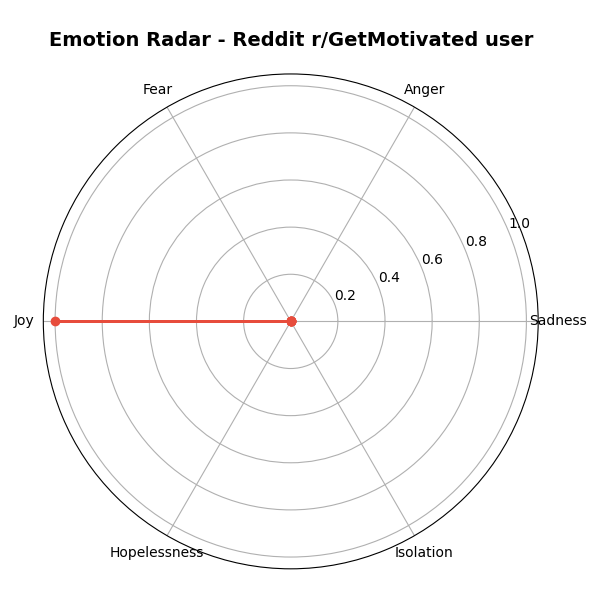
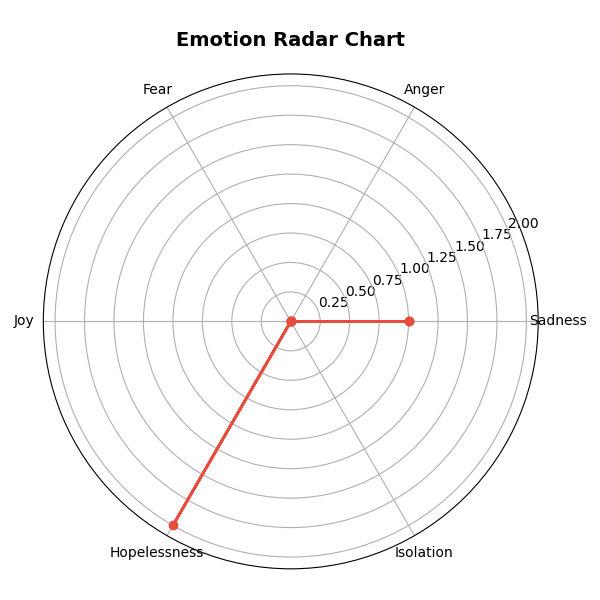
✅ Streamlit app final version

diff --git a/app.py b/app.py
@@ -2,46 +2,83 @@
 import streamlit as st
 import sys
 sys.path.append("/content/mental-health-detection")
-
 from src.preprocess import load_data, preprocess_dataframe
-from src.model import train_model, predict_risk, save_model, load_model
+from src.model import train_model, predict_risk, save_model
 from src.sentiment import analyze_sentiment, get_emotional_pattern
-from src.visualize import plot_risk_meter, plot_keyword_triggers, plot_wordcloud
-import pandas as pd
+from src.visualize import plot_risk_meter, plot_emotion_radar
+import matplotlib.pyplot as plt
 
 # Load and train
-df = load_data("/content/mental-health-detection/data/depression_dataset_reddit_cleaned.csv")
-df = preprocess_dataframe(df)
-model, tfidf = train_model(df)
+@st.cache_resource
+def load_and_train():
+    df = load_data("/content/mental-health-detection/data/depression_dataset_reddit_cleaned.csv")
+    df = preprocess_dataframe(df)
+    model, tfidf = train_model(df)
+    return model, tfidf
 
-# App
+st.set_page_config(page_title="Mental Health Detection", page_icon="🧠", layout="wide")
+
 st.title("🧠 Mental Health Detection System")
-st.write("Analyze social media posts for mental health indicators")
+st.write("Analyzing social media posts for mental health indicators using ML")
 
-user_input = st.text_area("Enter a social media post:")
+with st.spinner("Loading model..."):
+    model, tfidf = load_and_train()
 
-if st.button("Analyze"):
+st.success("✅ Model Ready!")
+
+# Input
+st.subheader("📝 Enter a Social Media Post")
+user_input = st.text_area("Paste any social media post here:", height=150)
+
+if st.button("🔍 Analyze", use_container_width=True):
     if user_input:
-        prob, risk = predict_risk(user_input, model, tfidf)
+        result = predict_risk(user_input, model, tfidf)
         sentiment = analyze_sentiment(user_input)
-        
-        st.subheader("📊 Results")
-        
-        if risk == "High Risk":
-            st.error(f"🔴 {risk} | Probability: {prob:.1%}")
-            st.warning("⚠ Please reach out to a mental health professional!")
-        elif risk == "Medium Risk":
-            st.warning(f"🟡 {risk} | Probability: {prob:.1%}")
-            st.info("💡 Consider talking to someone you trust")
-        else:
-            st.success(f"🟢 {risk} | Probability: {prob:.1%}")
-        
-        st.subheader("💭 Sentiment Analysis")
-        col1, col2, col3 = st.columns(3)
-        col1.metric("Sentiment", sentiment["sentiment"])
-        col2.metric("Score", f"{sentiment['compound']:.2f}")
-        col3.metric("Emoji", sentiment["emoji"])
-        
-        st.subheader("📈 Risk Meter")
-        plot_risk_meter(prob)
-        st.pyplot()
+
+        st.markdown("---")
+        col1, col2 = st.columns(2)
+
+        with col1:
+            st.subheader("🎯 Mental Health Classification")
+            if result["risk"] == "Critical":
+                st.error(f"{result['emoji']} {result['risk']} — {result['probability']:.1%}")
+                st.error(f"⚠ {result['message']}")
+                st.warning(f"💡 {result['suggestion']}")
+            elif result["risk"] == "High Risk":
+                st.error(f"{result['emoji']} {result['risk']} — {result['probability']:.1%}")
+                st.warning(f"💡 {result['suggestion']}")
+            elif result["risk"] == "Moderate Risk":
+                st.warning(f"{result['emoji']} {result['risk']} — {result['probability']:.1%}")
+                st.info(f"💡 {result['suggestion']}")
+            elif result["risk"] == "Mild Concern":
+                st.info(f"{result['emoji']} {result['risk']} — {result['probability']:.1%}")
+                st.info(f"💡 {result['suggestion']}")
+            else:
+                st.success(f"{result['emoji']} {result['risk']} — {result['probability']:.1%}")
+                st.success(f"💡 {result['suggestion']}")
+
+            st.subheader("💭 Emotional Pattern Insights")
+            st.metric("Sentiment", f"{sentiment['emoji']} {sentiment['sentiment']}")
+            st.metric("Sentiment Score", f"{sentiment['compound']:.2f}")
+            st.metric("Emotional Intensity", sentiment["emotional_intensity"])
+            st.metric("Dominant Emotion", sentiment["dominant_emotion"])
+
+            st.subheader("🚩 Behavioral Patterns")
+            for pattern in sentiment["behavioral_patterns"]:
+                st.write(pattern)
+
+        with col2:
+            st.subheader("📊 Risk Meter")
+            plot_risk_meter(result["probability"])
+            st.pyplot(plt.gcf())
+            plt.clf()
+
+            st.subheader("🎭 Emotion Radar")
+            plot_emotion_radar(sentiment["emotion_scores"])
+            st.pyplot(plt.gcf())
+            plt.clf()
+    else:
+        st.warning("Please enter a post to analyze!")
+
+st.markdown("---")
+st.caption("🧠 Mental Health Detection System | Built with ML + NLP")
